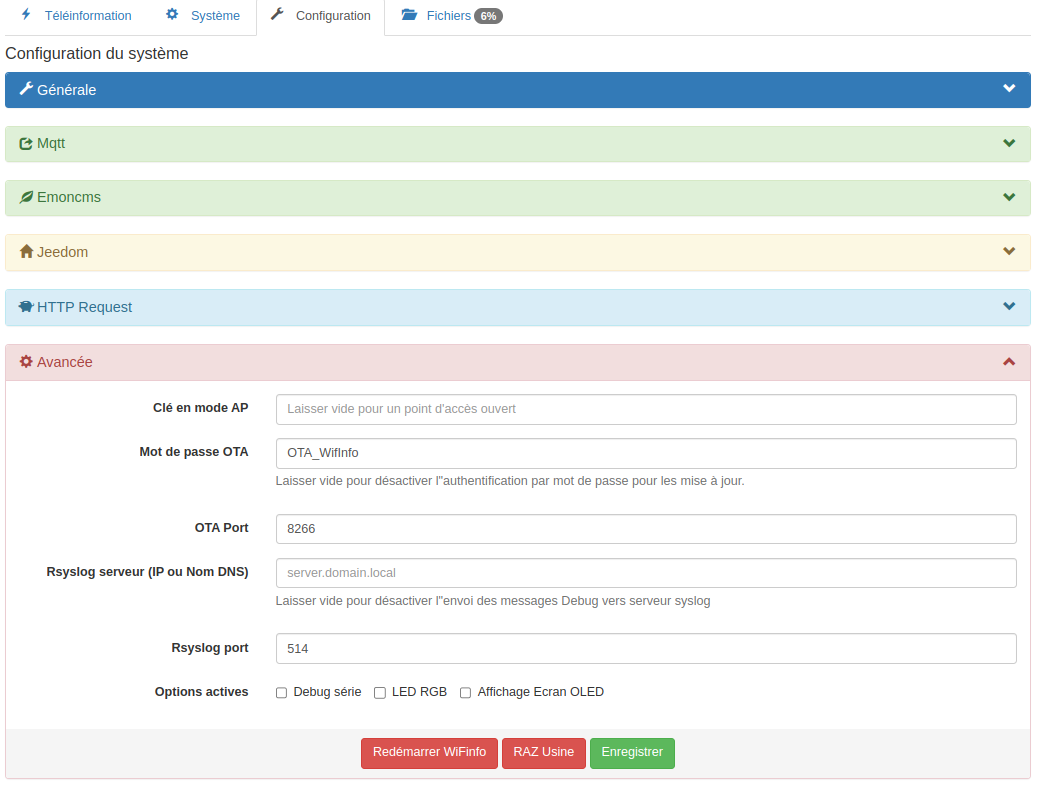
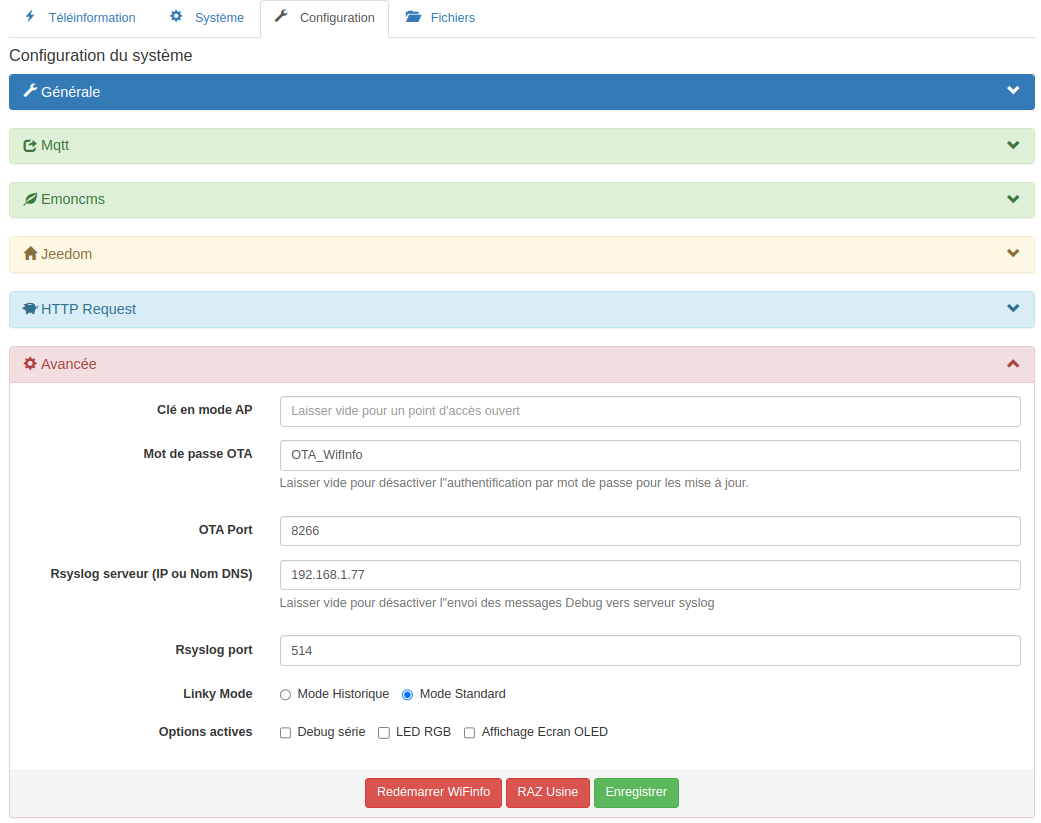
Ajout Linky Mode Historique ou Standard dans la configuration avancée
Linky Mode Historique ou Linky Mode Standard n'est plus une option de compilation.
Linky Mode Historique ou Linky Mode Standard se configure dans l'onglet Configuration dans les paramètres Avancée

diff --git a/examples/Wifinfo/config.h b/examples/Wifinfo/config.h
@@ -113,9 +113,11 @@
 #define CFG_FORM_HTTPREQ_FREQ  FPSTR("httpreq_freq")
 #define CFG_FORM_HTTPREQ_SWIDX FPSTR("httpreq_swidx")
 
-#define CFG_FORM_IP  FPSTR("wifi_ip");
-#define CFG_FORM_GW  FPSTR("wifi_gw");
-#define CFG_FORM_MSK FPSTR("wifi_msk");
+#define CFG_FORM_IP  FPSTR("wifi_ip")
+#define CFG_FORM_GW  FPSTR("wifi_gw")
+#define CFG_FORM_MSK FPSTR("wifi_msk")
+
+#define CFG_FORM_LINKY_MOD FPSTR("linky_mod")
 
 #pragma pack(push)  // push current alignment to stack
 #pragma pack(1)     // set alignment to 1 byte boundary
@@ -140,8 +142,8 @@ typedef struct
 {
   char  host[CFG_EMON_HOST_SIZE+1]; 	  // FQDN 
   char  apikey[CFG_EMON_APIKEY_SIZE+1]; // Secret
-  char  url[CFG_EMON_URL_SIZE+1];  		  // Post URL
-  uint16_t port;    					          // Protocol port (HTTP/HTTPS)
+  char  url[CFG_EMON_URL_SIZE+1];  	    // Post URL
+  uint16_t port;                        // Protocol port (HTTP/HTTPS)
   uint8_t  node;     					          // optional node
   uint32_t freq;                        // refresh rate
 //  uint8_t  filler[22];  				      // in case adding data in config avoiding loosing current conf by bad crc*/
@@ -177,7 +179,7 @@ typedef struct
 // Warning La librairie semble limiter la taille à 1024 pour un ESP8266
 typedef struct 
 {
-  char  ssid[CFG_SSID_SIZE+1]; 		      // SSID     
+  char  ssid[CFG_SSID_SIZE+1]; 	        // SSID     
   char  psk[CFG_PSK_SIZE+1]; 		        // Pre shared key
   char  host[CFG_HOSTNAME_SIZE+1];      // Hostname 
   char  ap_psk[CFG_PSK_SIZE+1];         // Access Point Pre shared key
@@ -190,7 +192,8 @@ typedef struct
   _emoncms emoncms;                     // Emoncms configuration
   _jeedom  jeedom;                      // jeedom configuration
   _httpRequest httpReq;                 // HTTP request
-  uint8_t  filler[45];      		        // in case adding data in config avoiding loosing current conf by bad crc
+  uint8_t linky_mode_standard;          // 0 si mode historique 1 si mode standard
+  uint8_t  filler[44];      		        // in case adding data in config avoiding loosing current conf by bad crc
   uint16_t crc;
 } _Config;
 

diff --git a/examples/Wifinfo/webserver.cpp b/examples/Wifinfo/webserver.cpp
@@ -223,6 +223,9 @@ void handleFormConfig(void)
     else
       config.httpReq.swidx = 0;
 
+    itemp = server.arg("linky_mod").toInt();
+    config.linky_mode_standard = itemp;
+
     if ( saveConfig() ) {
       ret = 200;
       response = "OK";
@@ -556,8 +559,9 @@ void getConfJSONData(String & r)
   r+=CFG_FORM_HTTPREQ_PORT; r+=FPSTR(FP_QCQ); r+=config.httpReq.port;   r+= FPSTR(FP_QCNL); 
   r+=CFG_FORM_HTTPREQ_PATH; r+=FPSTR(FP_QCQ); r+=config.httpReq.path;   r+= FPSTR(FP_QCNL);  
   r+=CFG_FORM_HTTPREQ_FREQ; r+=FPSTR(FP_QCQ); r+=config.httpReq.freq;   r+= FPSTR(FP_QCNL);   
-  r+=CFG_FORM_HTTPREQ_SWIDX; r+=FPSTR(FP_QCQ); r+=config.httpReq.swidx;  
+  r+=CFG_FORM_HTTPREQ_SWIDX; r+=FPSTR(FP_QCQ); r+=config.httpReq.swidx;  r+= FPSTR(FP_QCNL); 
   
+  r+=CFG_FORM_LINKY_MOD; r+=FPSTR(FP_QCQ); r+=config.linky_mode_standard; 
 
   r+= F("\""); 
   // Json end

diff --git a/examples/Wifinfo/config.cpp b/examples/Wifinfo/config.cpp
@@ -184,6 +184,7 @@ void showConfig()
   DebugF("OTA port :"); Debugln(config.ota_port); 
   DebugF("syslog host :"); Debugln(config.syslog_host); 
   DebugF("syslog port :"); Debugln(config.syslog_port); 
+  DebugF("Linky mode :"); Debugln( (config.linky_mode_standard == 1 ? "Linky Mode Standard" : "Linky Mode Historique" )); 
   DebugF("Config   :"); 
   if (config.config & CFG_RGB_LED) DebugF(" RGB"); 
   if (config.config & CFG_DEBUG)   DebugF(" DEBUG"); 
@@ -219,6 +220,7 @@ void showConfig()
   DebugF("port     :"); Debugln(config.httpReq.port); 
   DebugF("path     :"); Debugln(config.httpReq.path); 
   DebugF("freq     :"); Debugln(config.httpReq.freq); 
-  DebugF("sw idx   :"); Debugln(config.httpReq.swidx); 
+  DebugF("sw idx   :"); Debugln(config.httpReq.swidx);
+
   delay(1000);
 }

diff --git a/examples/Wifinfo/Wifinfo.h b/examples/Wifinfo/Wifinfo.h
@@ -60,8 +60,9 @@ extern "C" {
 //  vers un serveur rsyslog du réseau
 // #define SYSLOG
 
-// Decommenter LINKY_MODE_STANDARD pour un Lniky en mode Standard
-// #define LINKY_MODE_STANDARD
+// Linky mode Historique ou Linky en mode Standard
+// A définir dans l'onglet Configuration puis déployer Avancée
+// Il faut redémarrer Wifinfo pour que le changement soit pris en compte
 
 #ifdef SIMU
 #define DEBUG_SERIAL  Serial

diff --git a/README.md b/README.md
@@ -37,7 +37,7 @@ Wifinfo dispose d'une interface d'administation
   - [Système](docs/Wifinfo-systeme.png) : Affichage des informations système ( Version, Réseau, Erreurs, Options de compilation, Mémoire)
   - [Fichiers](docs/Wifinfo-fichiers.png) : Affichage des informations du système de fichiers (Liste, Taille, Espace libre)
  
-  - Linky mode Historique et mode Standard (option de compilation Wifinfo.h)
+  - Linky mode Historique et mode Standard dans l'onglet Configuration Avancée (Redémarrer Wifinfo après le changement)
   - Compatible jeedom v4 / clé API plugin Teleinfo 64 caractères
   - Beta version de mqtt
 
@@ -59,10 +59,10 @@ Depuis votre téléphone portable :
 - Merge avec https://github.com/hallard/LibTeleinfo/tree/master
   - Integration nouvelle LibTeleinfo compatible mode Historique et mode Standard
     - Presque identique à https://github.com/arendst/Tasmota/tree/development/lib/lib_div/LibTeleinfo
-- Compile en Linky mode Historique et Linky mode Standard
-  - Configuration dans Wifinfo.h : 
-    - #define LINKY_MODE_STANDARD
-    - Si le define est commenté alors mode Historique
+- Ajout Configuration Linky Mode dans l'onglet Configuration Avancée
+  - Radio button Linky Mode Historique et Linky Mode Standard dans l'onglet Configuration Avancée
+  - Sélectionner inky Mode Historique ou Linky Mode Standard
+  - Cliquer sur Redémarrer Wifinfo pour que le changement soit pris en compte
 - Affichage sur la page web dans l'onglet Système
   - Les options de compilation
   - Les compteurs d'erreur (checksumerror,framesizeerror,frameformaterror,frameinterrupted)
